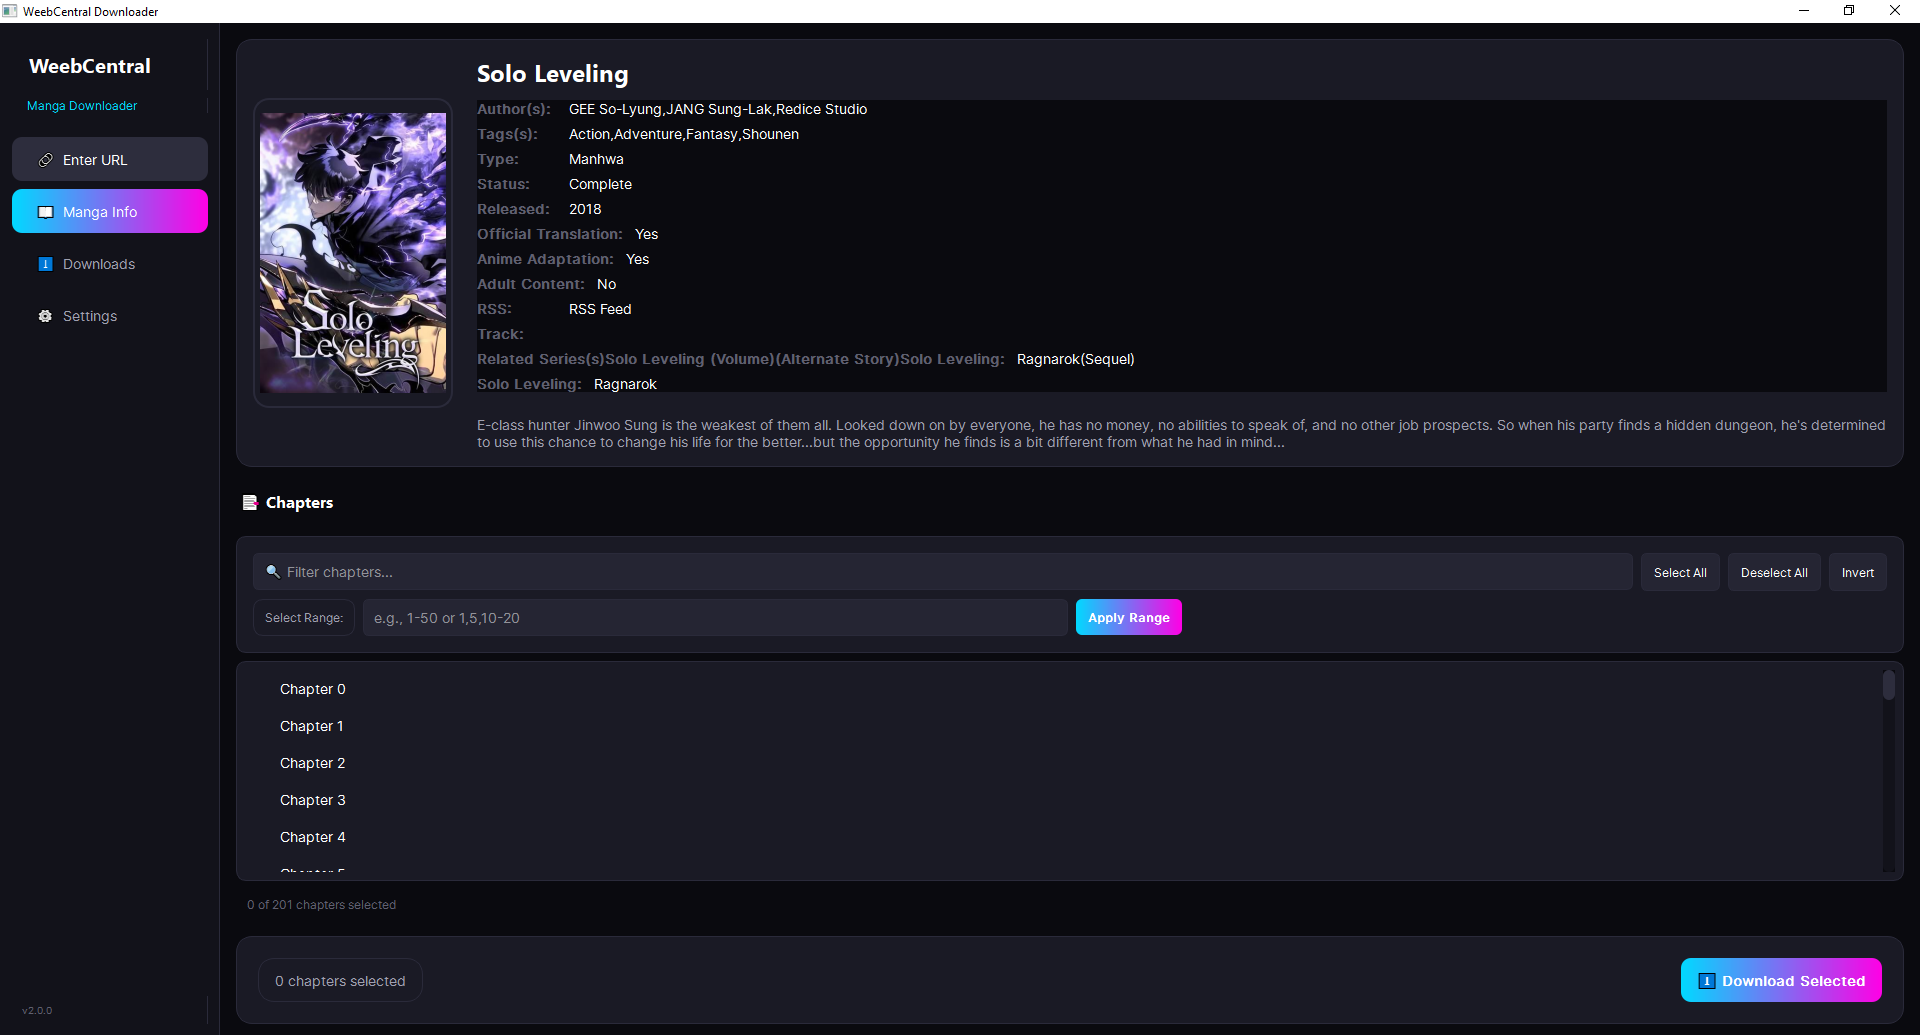
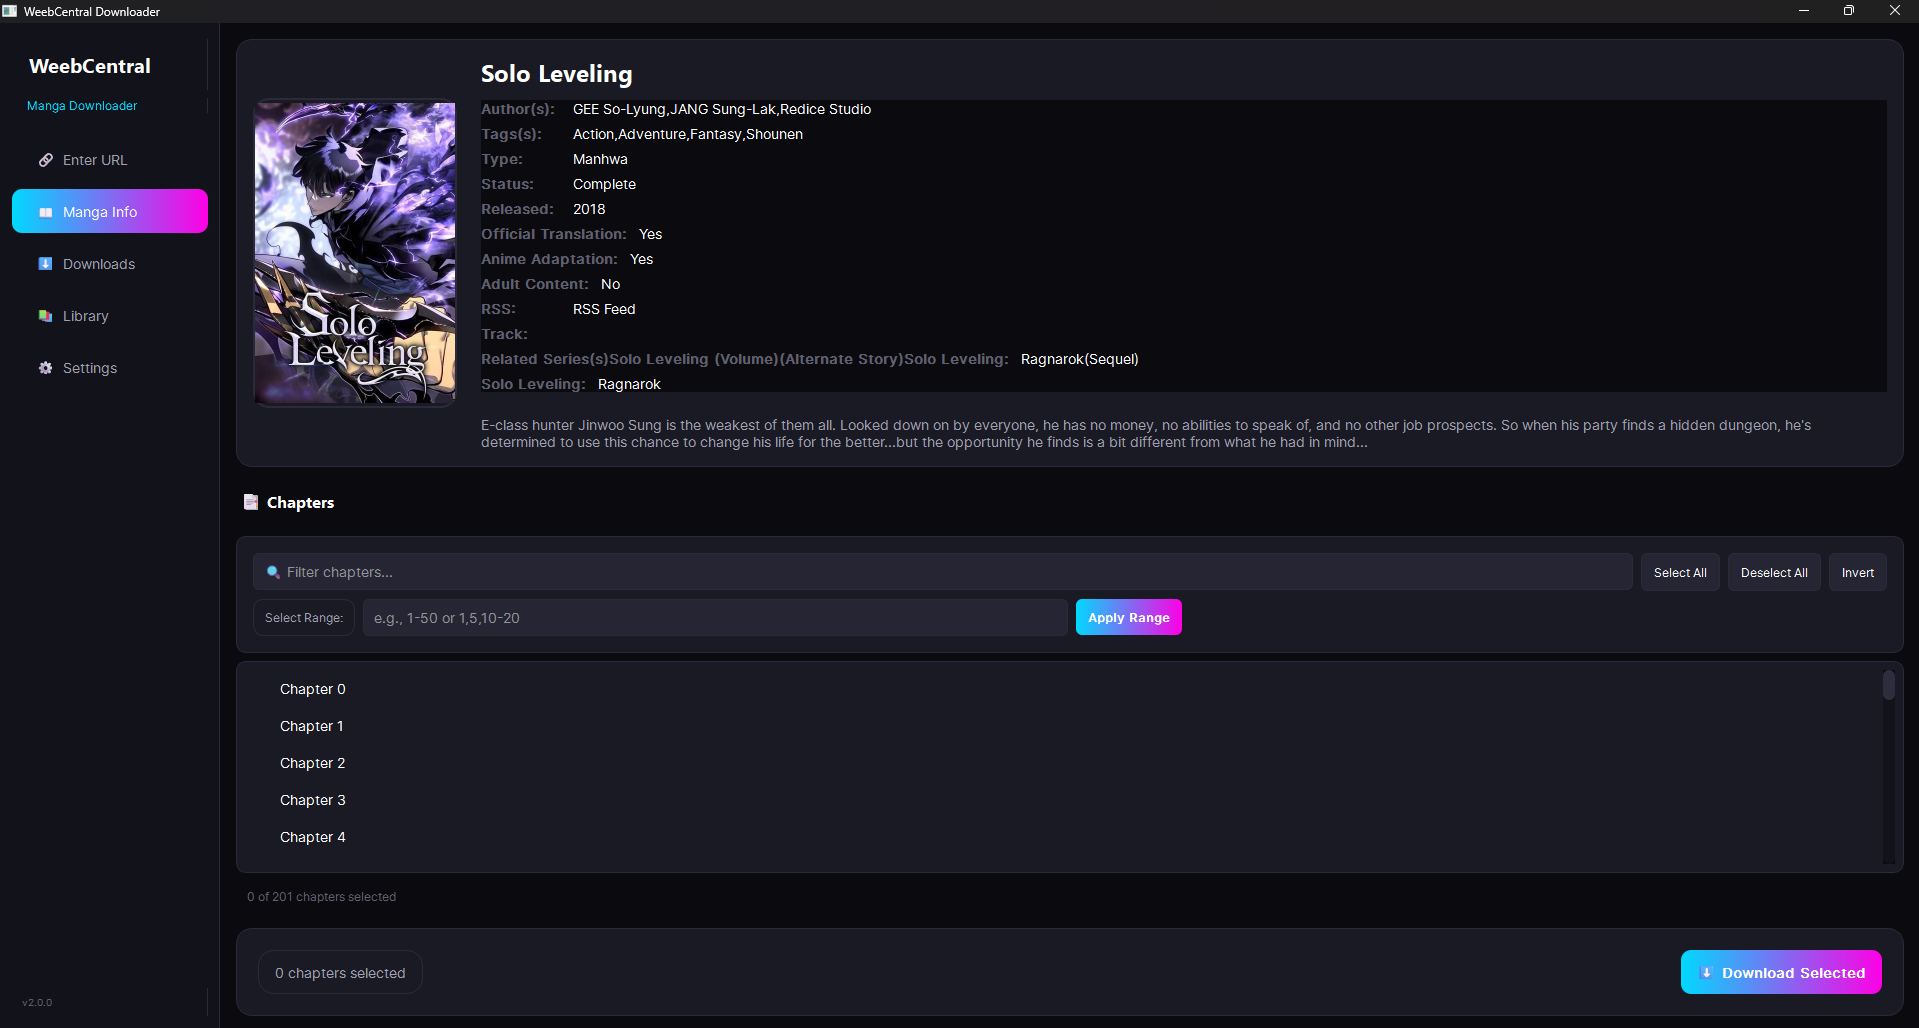
docs : Update docs

diff --git a/README.md b/README.md
@@ -35,7 +35,7 @@
 - **Neon Noir** design with cyan/magenta accents
 - Animated buttons with glow effects
 - Smooth transitions and glassmorphism panels
-- Real-time progress bars per chapter
+- **Granular real-time progress bars** showing image counts (e.g., 12/55)
 
 </td>
 <td width="50%">
@@ -133,7 +133,8 @@ Run directly in your browser - no installation needed!
 |-----|-------------|
 | 🔗 **URL Input** | Paste manga URL, view recent history, fetch manga info |
 | 📖 **Manga Info** | View cover, metadata, tags, and select chapters to download |
-| ⬇ **Downloads** | Real-time progress bars, parallel downloads, cancel option |
+| ⬇ **Downloads** | Real-time progress bars with image counts, parallel downloads |
+| 📚 **Library** | Browse downloaded manga, track missing chapters, and batch convert |
 | ⚙ **Settings** | Configure threads, delay, output folder, conversion options |
 
 ### Settings Available
@@ -175,7 +176,8 @@ weebcentral_downloader/
 │   │   └── settings_tab.py
 │   └── workers/            # Background threads
 │       ├── scraper_worker.py
-│       └── download_worker.py
+│       ├── download_worker.py
+│       └── conversion_worker.py
 └── downloads/              # Default output folder
 ```
 
@@ -202,6 +204,10 @@ Contributions are welcome! Feel free to:
 - 🐛 Report bugs
 - 💡 Suggest features
 - 🔧 Submit pull requests
+
+### ✨ Top Contributors
+
+- **[TheHappyAkita](https://github.com/TheHappyAkita)**: Huge contribution with PR #15 (Library Tab, improved rate limiting, and core stability).
 
 ---
 
